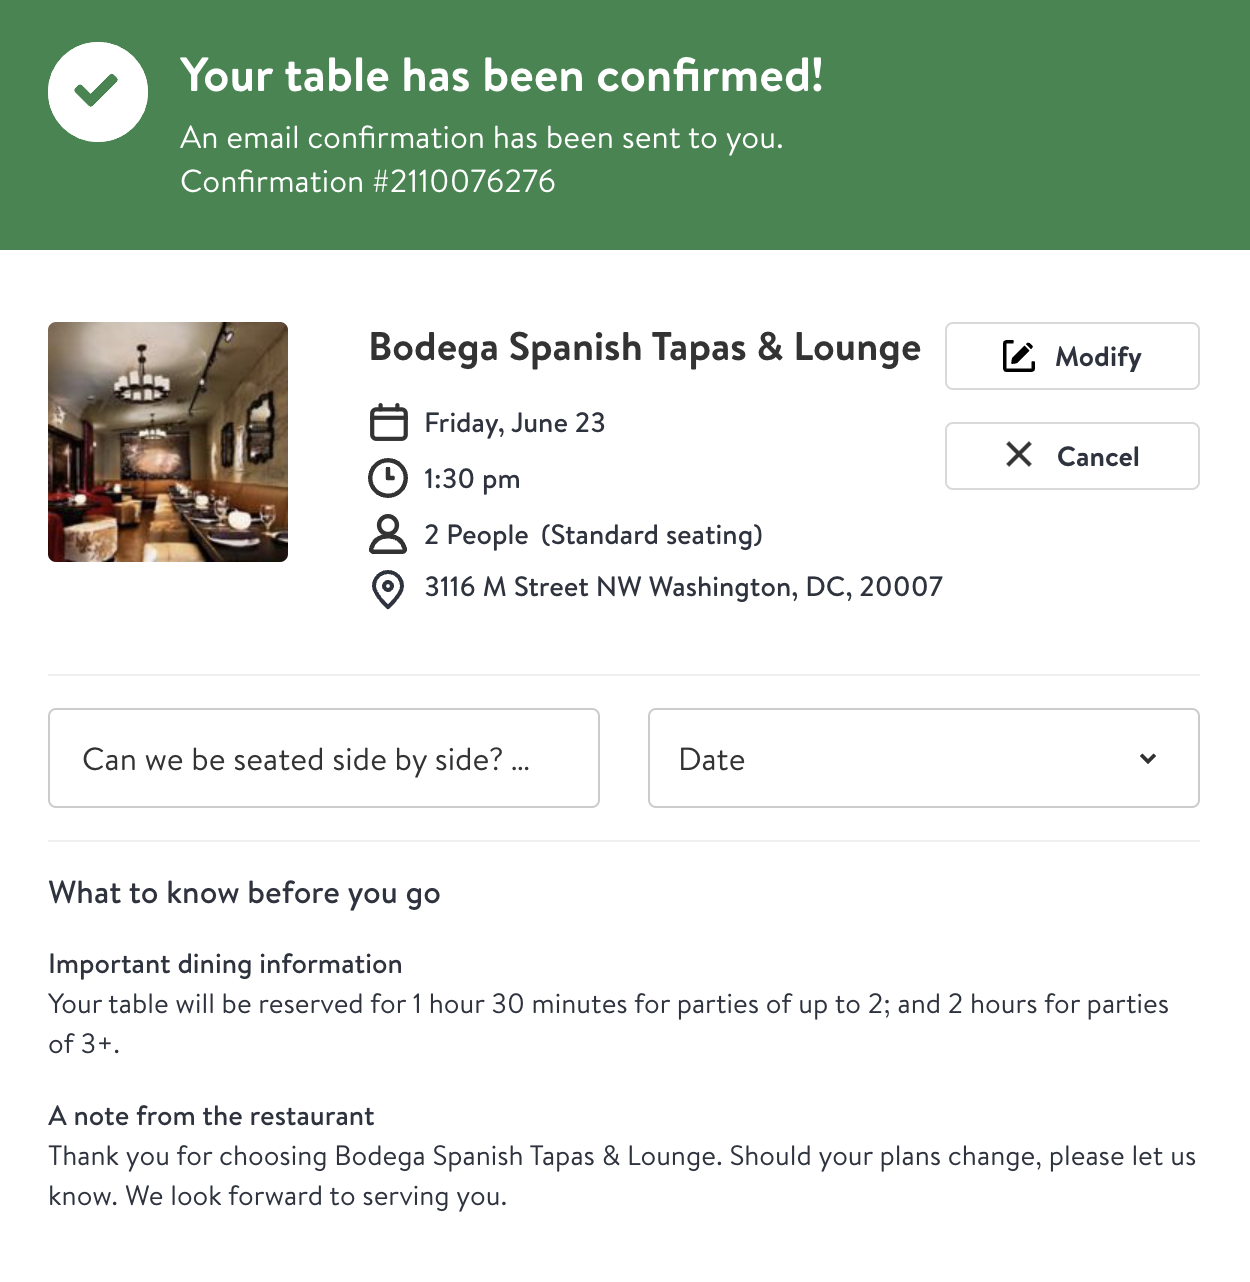
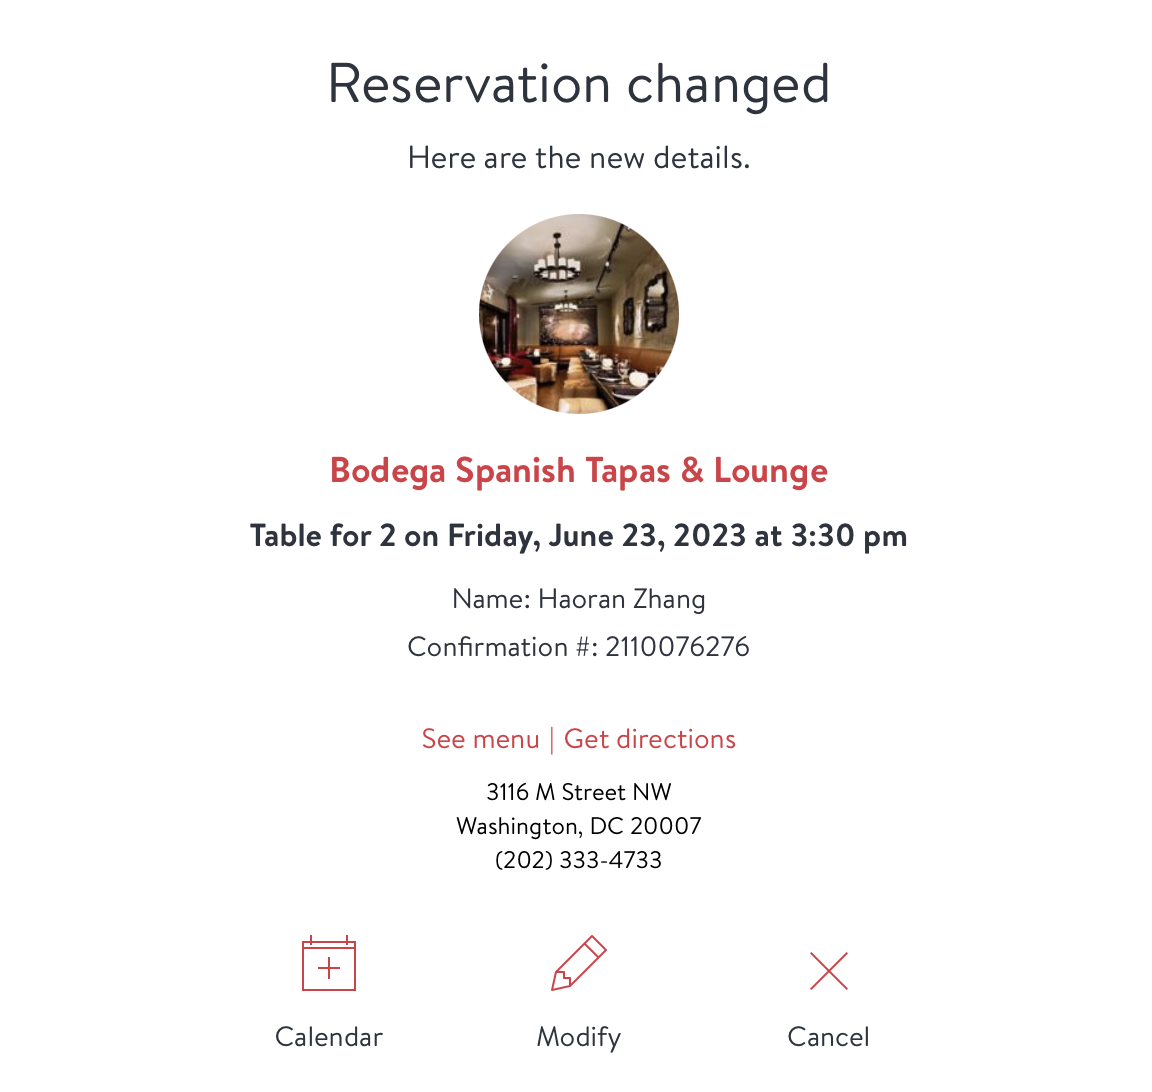
everything

diff --git a/city/US_June_2023/index.html b/city/US_June_2023/index.html
@@ -152,9 +152,10 @@
     const tasks = {
       "2023-06-15": ["LON-RDU<br>10:05 AM - 1:35 PM<br><a href=\"LON~RDU.pdf\">American Airlines 173</a>", "<a href=\"https://www.goodharvestcary.com/\">Big Harvest 大丰收</a>", "<a href=\"https://www.hmart.com/weekly-sales-and-events/north-carolina/\">H-Mart 韩超</a>"],
       "2023-06-17": ["Wilminton 自驾游", "<a href=\"https://www.wilmingtonandbeaches.com/listing/rentabeachchair/551/\">Carolina Beach 预约</a>", "<a href=\"https://mikescfood.com/\">Michael's 海鲜餐馆</a>"],
-      "2023-06-23": ["<a href=\"https://www.recreation.gov/ticket/234635/ticket/193\">纪念碑 10 AM 抢票<br>计划下午时间</a>", "RDU-IAD<br>10:40 AM - 11:46 AM<br><a href=\"RDU~DC.pdf\">United Airline 2163</a>", "<a href=\"Park_3.pdf\">停车 9:30 AM</a>", "<a href=\"DC_June_2023.pdf\">YOTEL 酒店</a>", "<a href = \"DC_Lunch_1.png\">午餐 Bodega 1:30 PM</a>", "<a href=\"Capitol_Reservation_1.pdf\">国会预约 2:40 PM</a>", "<a href=\"Library_Congress_23.pdf\">国会图书馆<br>3:00 PM - 4:00 PM</a>", "国会广场 All Day", "<a href=\"DC_Dinner_1.png\">晚餐 illis DC 7:00 PM</a>"],
-      "2023-06-24": ["<a href=\"https://www.recreation.gov/ticket/234635/ticket/193\">纪念碑 10 AM 抢票<br>计划下午时间</a>", "参观白宫<br>8:00 AM - 12:30 PM", "GWU 学校",  "<a href=\"https://andpizza.com/\">午餐 &pizza </a>", "<a href=\"Capitol_Reservation_2.pdf\">国会预约 3:10 PM</a>", "<a href=\"Library_Congress_24.pdf\">国会图书馆<br>3:00 PM - 4:00 PM</a>", "国家美术馆<br>10:00 AM to 5:00 PM", "<a href=\"DC_Dinner_2.png\">晚餐 Baan 7:00 PM</a>", "<a href=\"Park_1.pdf\">停车 9:30 AM <sup>+1</sup></a>", "IAD-RDU<br>10:00 PM - 11:07 PM<br><a href=\"RDU~DC.pdf\">United Airline 2634</a>"],
-      "2023-06-30": ["RDU>MIA<br>06:09 AM - 08:18 AM<br><a href=\"RDU>MIA.pdf\">American Airline 342</a>", "<a href=\"Park_4.pdf\">停车 5:00 AM</a>",  "<a href=\"MIA_July_2023.pdf\">AC Hotel of Miami</a>", "<a href=\"Lunch_MIA.pdf\">午饭预约 12:00 PM</a>"],
+      "2023-06-23": ["<a href=\"https://www.recreation.gov/ticket/234635/ticket/193\">纪念碑 10 AM 抢票<br>计划下午时间</a>", "RDU-IAD<br>10:40 AM - 11:46 AM<br><a href=\"RDU~DC.pdf\">United Airline 2163</a>", "<a href=\"Park_3.pdf\">停车 9:30 AM</a>", "<a href=\"DC_June_2023.pdf\">YOTEL 酒店</a>", "<a href=\"Congress_Senate.png\">国会预约 1:40 PM</a>", "<a href = \"DC_Lunch_1.png\">午餐 Bodega 3:30 PM</a>", "国会广场 All Day", "<a href=\"DC_Dinner_1.png\">晚餐 illis DC 7:00 PM</a>"],
+      "2023-06-24": ["<a href=\"https://www.recreation.gov/ticket/234635/ticket/193\">纪念碑 10 AM 抢票<br>计划下午时间</a>", "GWU 学校",  "<a href=\"https://andpizza.com/\">午餐 &pizza </a>", "<a href=\"Capitol_Reservation_2.pdf\">国会预约 3:10 PM</a>", "<a href=\"Library_Congress_24.pdf\">国会图书馆<br>3:00 PM - 4:00 PM</a>", "国家美术馆<br>10:00 AM to 5:00 PM", "<a href=\"DC_Dinner_2.png\">晚餐 Baan 7:00 PM</a>", "<a href=\"Park_1.pdf\">停车 9:30 AM <sup>+1</sup></a>", "IAD-RDU<br>10:00 PM - 11:07 PM<br><a href=\"RDU~DC.pdf\">United Airline 2634</a>"],
+      "2023-06-30": ["RDU>MIA<br>06:09 AM - 08:18 AM<br><a href=\"RDU>MIA.pdf\">American Airline 342</a>", "<a href=\"Park_4.pdf\">停车 5:00 AM</a>",  "<a href=\"MIA_July_2023.pdf\">AC Hotel of Miami</a>", "<a href=\"#MIA_Lunch_0pdf\">午饭预约 12:00 PM</a>"],
+      "2023-07-01": ["8:30 AM 泳池集合<br>125 N Riverside Dr. <br>Pompano Beach, FL", "<a href=\"#MIA_Lunch_1\">11:00 AM 午饭<br>码头泰国菜</a>", "12:45 PM - 17:00 PM <br>Nursery 潜水<sup>x2</sup><br><a href=\"#dive\">Riverside Dr #111<br>Pompano Beach, FL</a>"], 
       "2023-07-02": ["MIA>RDU<br>08:25 PM - 10:46 PM<br><a href=\"MIA<RDU.pdf\">Delta Airline 2602</a>","<a href=\"Lunch_MIA.pdf\">午饭预约 12:00 PM</a>", "<a href=\"Parking_DC.pdf\">停车预约</a>"],
       "2023-07-15": ["Charlotte 自驾游", "<a href=\"Lunch_charlotte.pdf\">午餐预约</a>"],
       "2023-07-19": ["RDU-LAX<br>07:55 AM - 10:10 AM<br><a href=\"RDU>LAX.pdf\">Delta Airline 957</a>", "<a href=\"Park_5.pdf\">停车预约</a>", "<a href=\"Lunch_LA.pdf\">午餐预约</a>", "<a href=\"LosAngeles_Jul_2023.pdf\">酒店预约</a>"],
